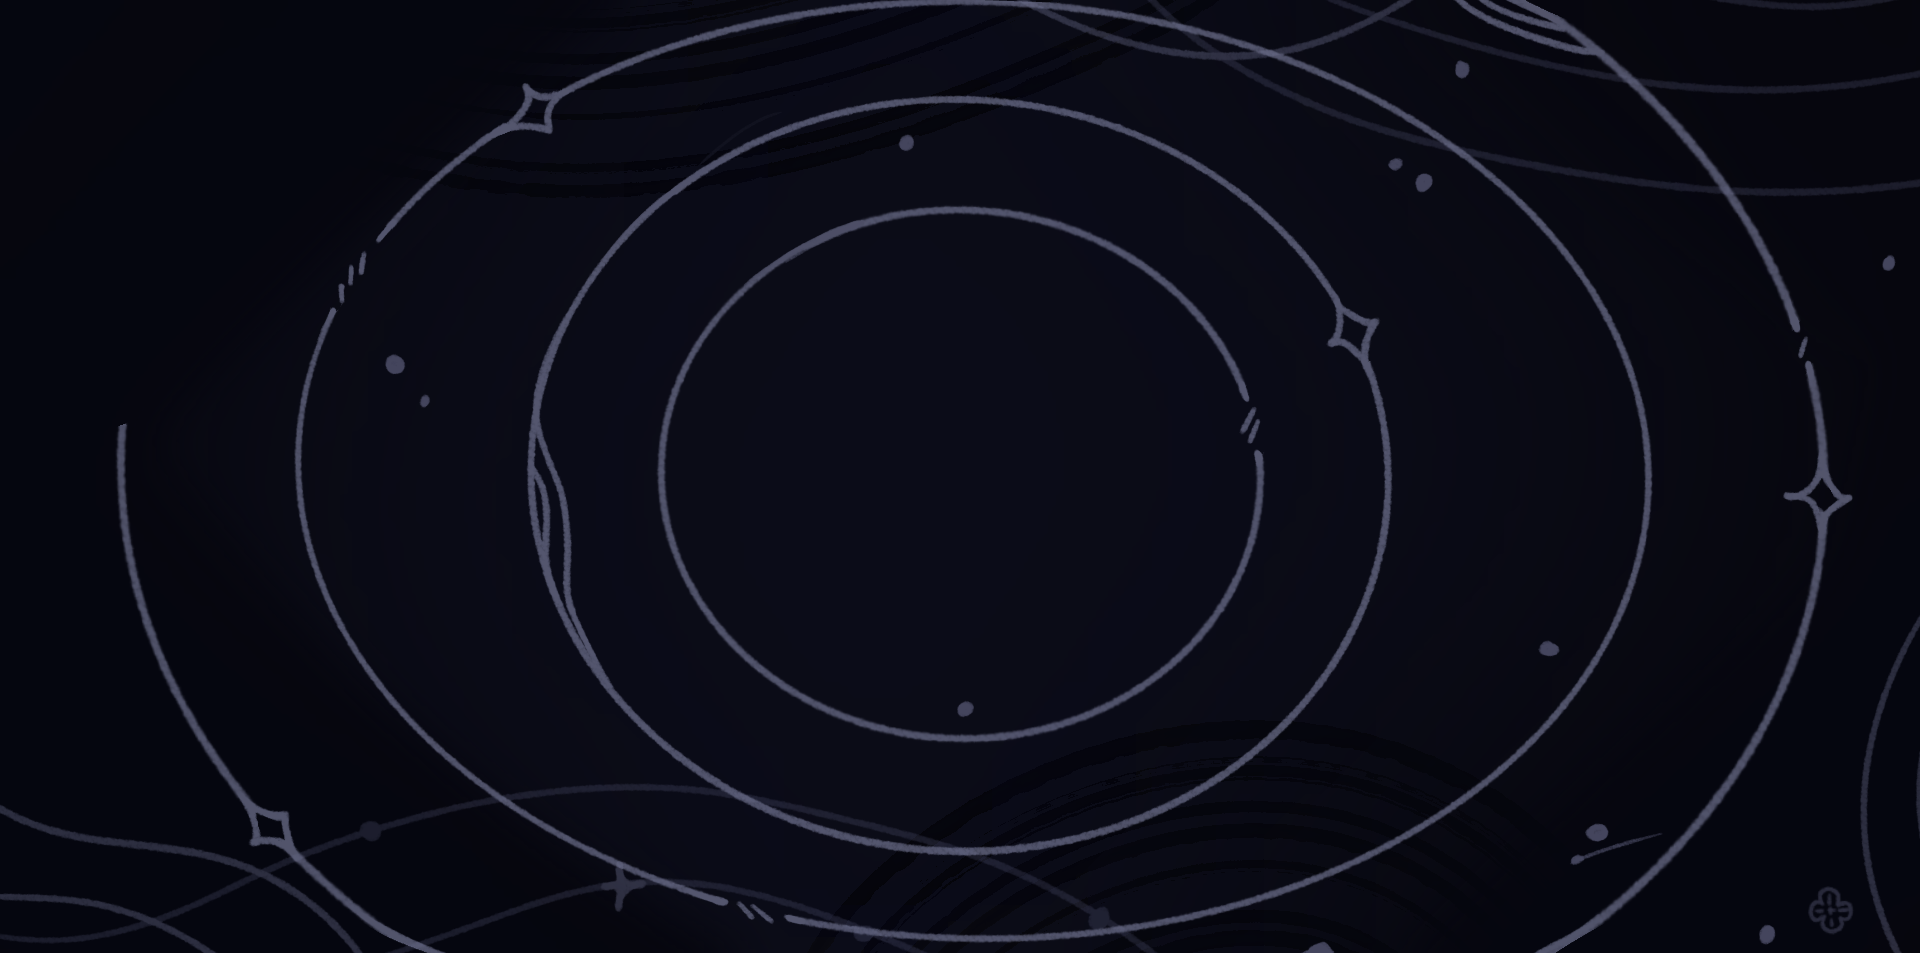
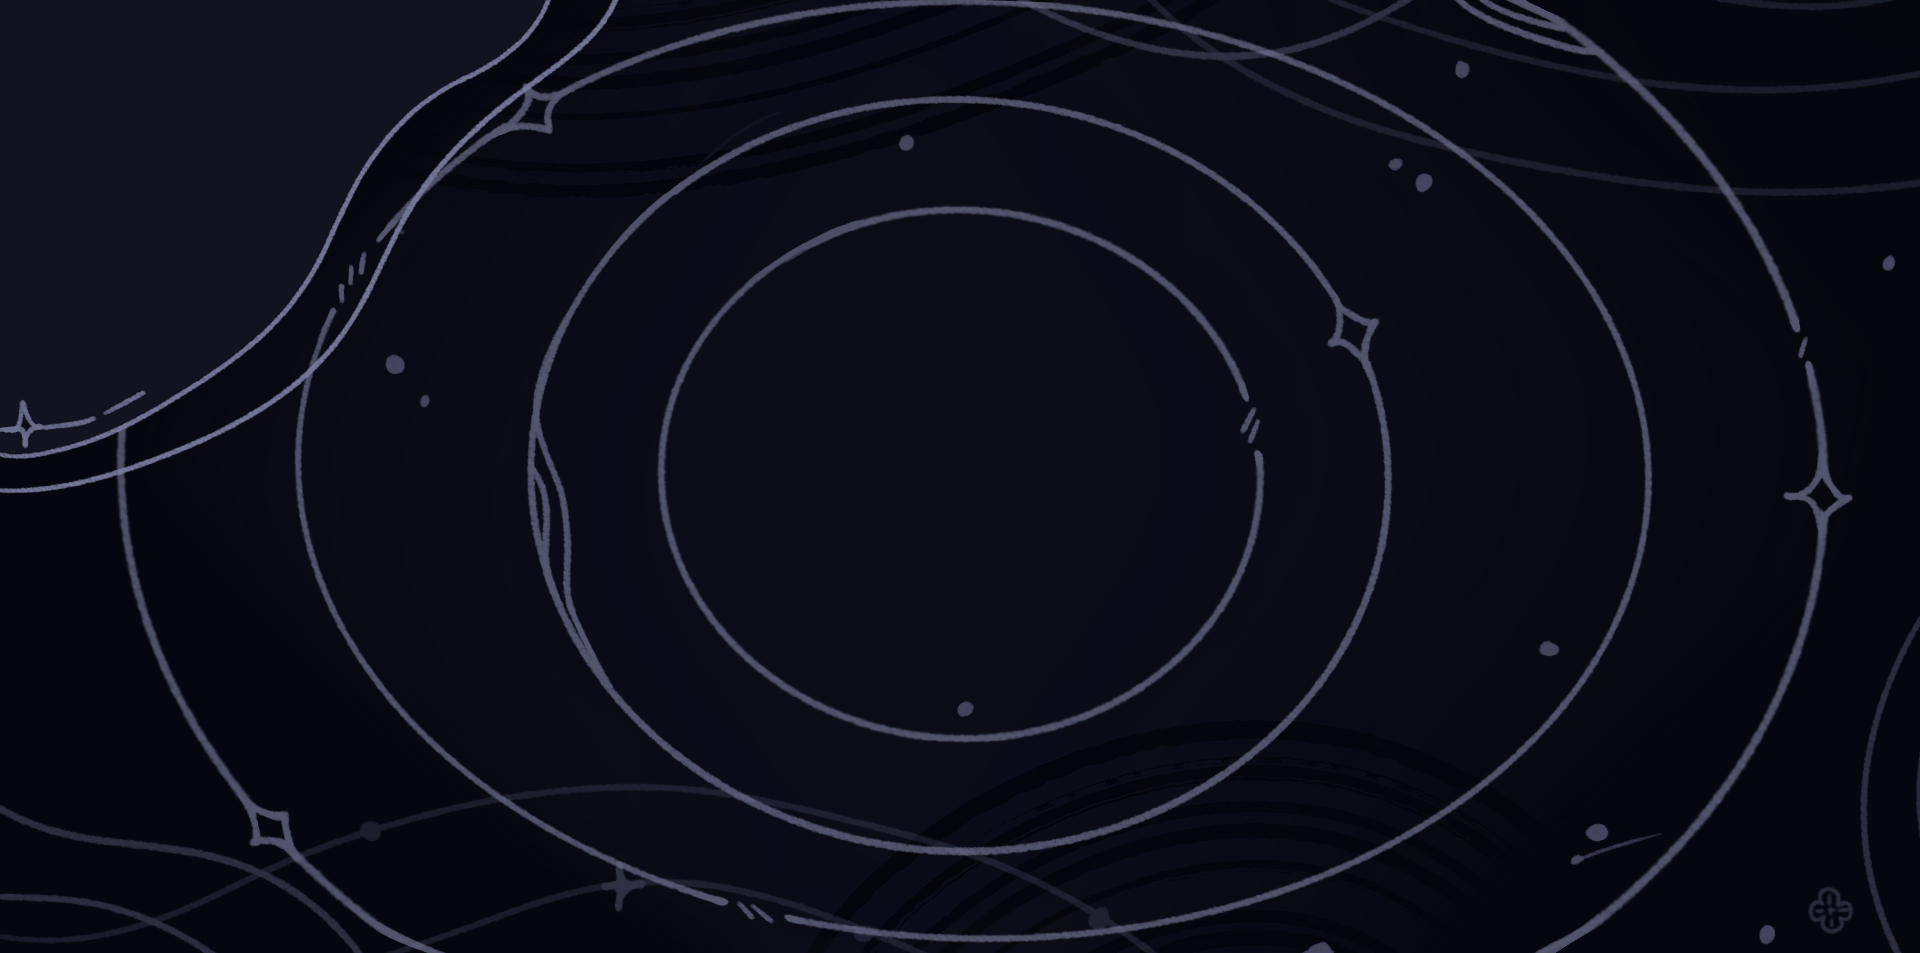
corrected background

diff --git a/style.css b/style.css
@@ -1,5 +1,7 @@
 @import url('https://fonts.googleapis.com/css2?family=Black+Ops+One&display=swap');
 @import url('https://fonts.googleapis.com/css2?family=Black+Ops+One&family=Caveat:wght=400;700&display=swap');
+@import url('https://fonts.googleapis.com/css2?family=DM+Serif+Display:ital@0;1&display=swap');
+
 
 :root{
     --background-shadow: rgba(255,255,255,.12);
@@ -179,12 +181,12 @@ body {
 .modal-overlay.open .modal-box { transform: translateY(0); }
 
 .modal-box h2 {
-    font-family: 'Caveat', cursive;
+    font-family: 'DM Serif Display';
     font-size: clamp(2rem, 6vw, 3rem); 
     margin-bottom: 24px;
 }
 .modal-box h3 {
-    font-family: 'Caveat', cursive;
+    font-family: 'DM Serif Display',;
     font-size: clamp(1.3rem, 4vw, 1.6rem);
     margin-top: 20px;
     margin-bottom: 8px;